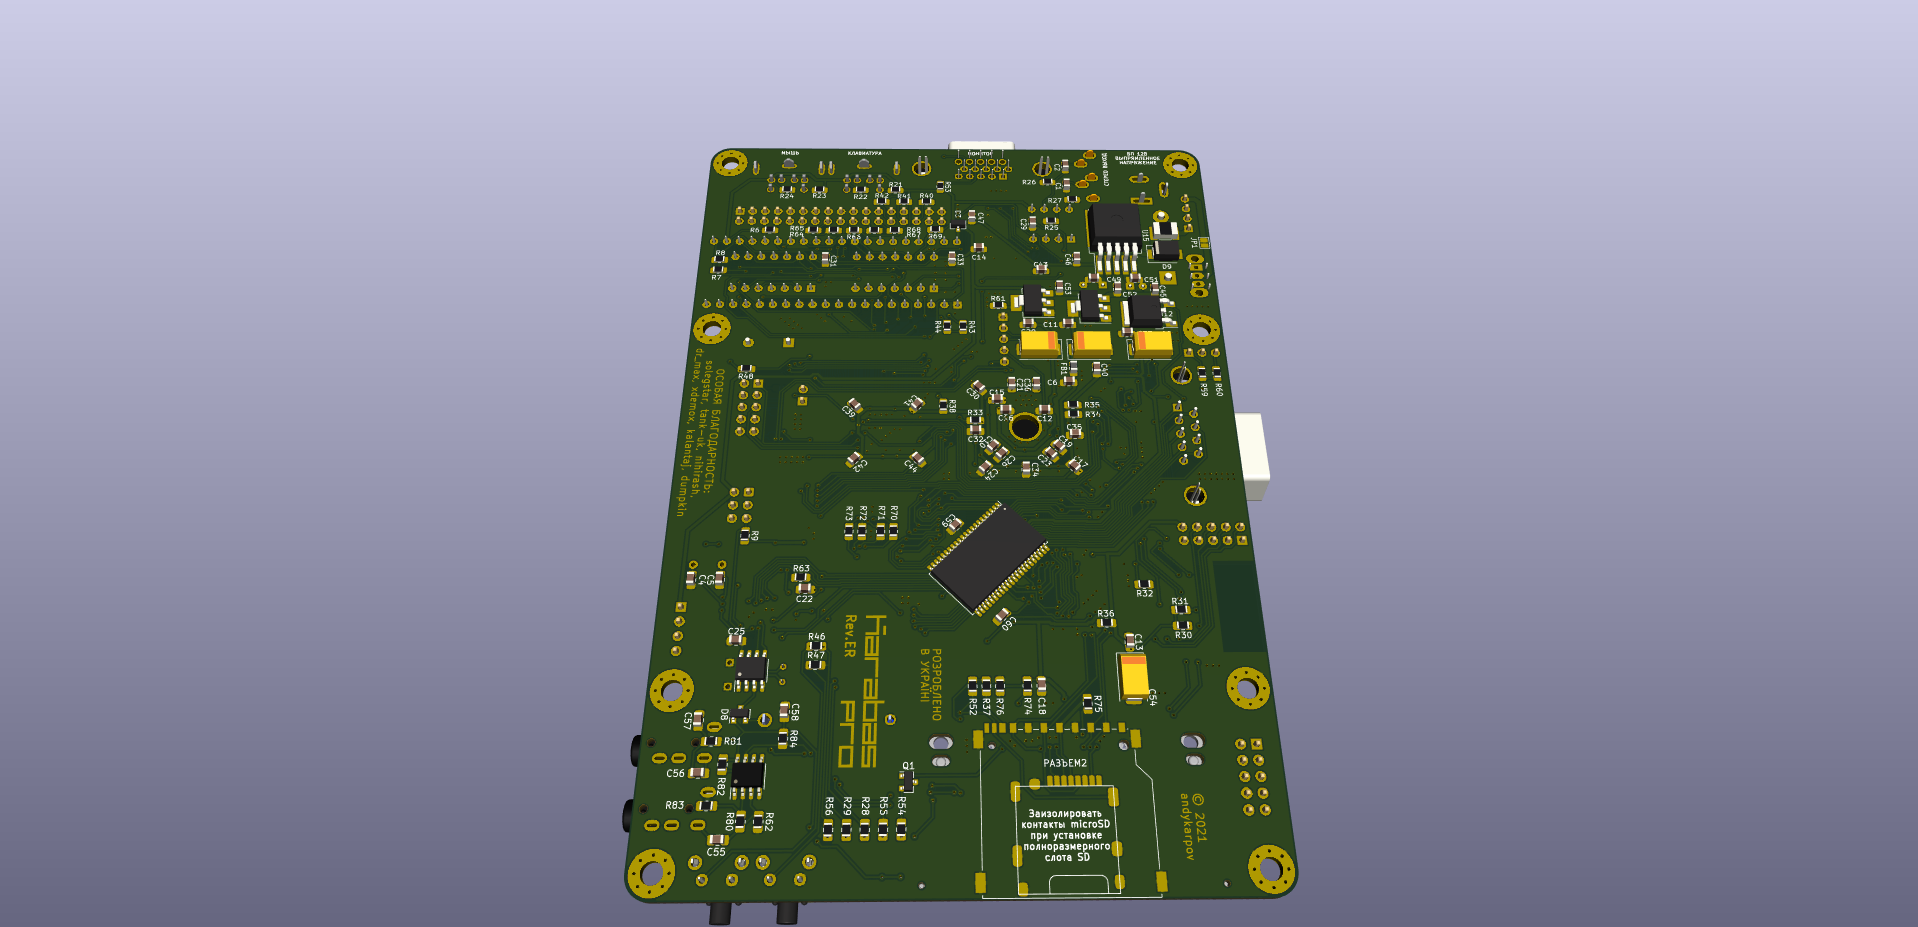
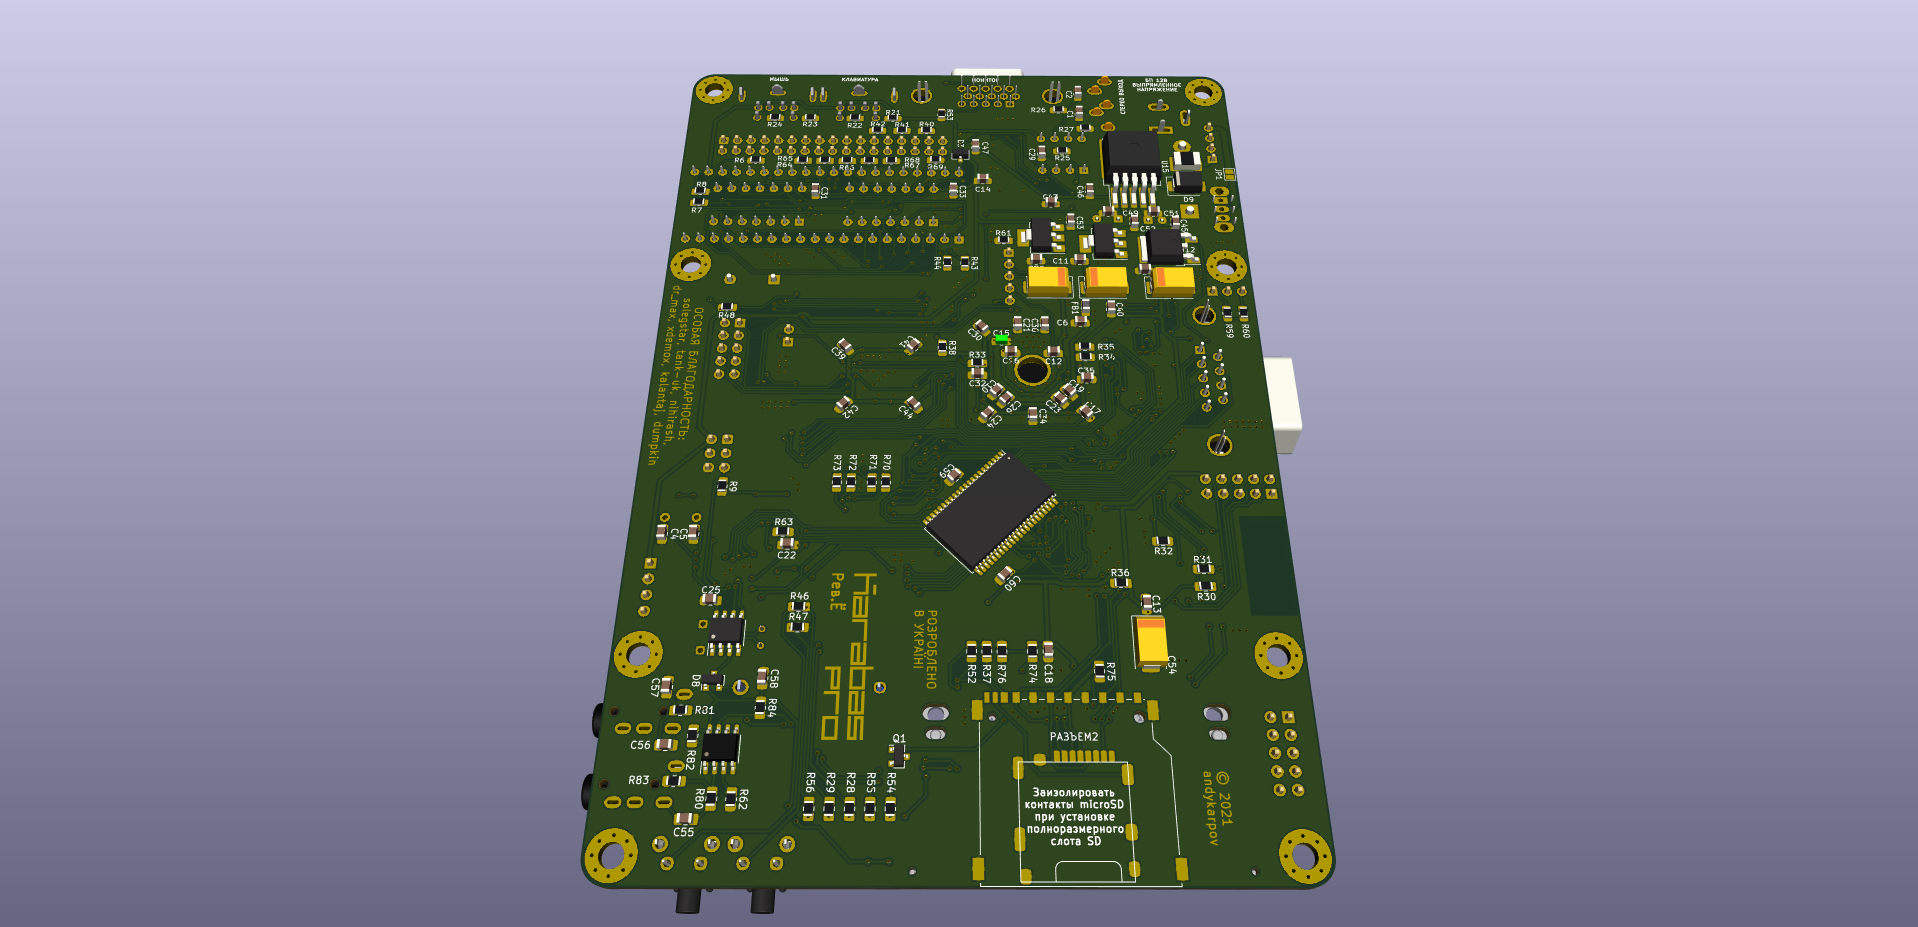
Updated renders

Changed region(s): [[0.2769, 0.0604, 0.7075, 1.0]]

diff --git a/README.md b/README.md
@@ -54,7 +54,7 @@ The idea was to make a smaller Profi (Профи) ZX Spectrum clone, with real F
 
 ### Pre-production renders:
 
-![image](https://github.com/andykarpov/karabas-pro/raw/master/docs/photos/karabas-pro-revDS-top.png)
+![image](https://github.com/andykarpov/karabas-pro/raw/master/docs/photos/karabas-pro-revER-top.png)
 
-![image](https://github.com/andykarpov/karabas-pro/raw/master/docs/photos/karabas-pro-revDS-bot.png)
+![image](https://github.com/andykarpov/karabas-pro/raw/master/docs/photos/karabas-pro-revER-bottom.png)
 
